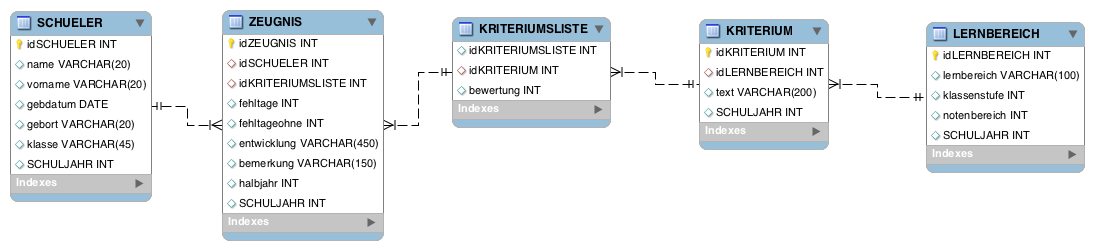
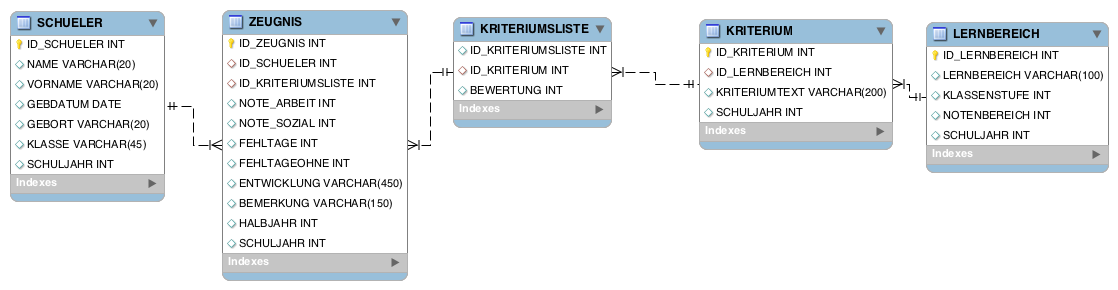
Arbeits und Sozialverhalten vorbereitet

diff --git a/src/zeugnis/SingletonSQLConnector.java b/src/zeugnis/SingletonSQLConnector.java
@@ -344,7 +344,7 @@ public class SingletonSQLConnector {
         return gebdatum;
     }
     
-        public String getSchuelerGebOrt(int idSCHUELER) throws SQLException{
+    public String getSchuelerGebOrt(int idSCHUELER) throws SQLException{
         String gebort="";
         try (Statement statement = con.createStatement()) {
             String sql = "select GEBORT from SCHUELER where ID_SCHUELER = " + idSCHUELER ;
@@ -357,6 +357,32 @@ public class SingletonSQLConnector {
         return gebort;
     }
  
+    public ArrayList[] getAVerhalten(int idSCHULER) throws SQLException {
+        ArrayList<ArrayList> result = new ArrayList<>();
+
+        /*
+        kann erst gemacht werden, wenn Zeugnis befüllt....
+        try (Statement statement = con.createStatement()) {
+
+            String sql = "select IDSCHUELER, NAME, VORNAME, GEBDATUM, GEBORT from SCHUELER where KLASSE = '" + sClass + "' and SCHULJAHR = " + sYear;
+            logger.fine(sql);
+            ResultSet set = statement.executeQuery(sql);
+
+            while (set.next()) {
+                ArrayList puple = new ArrayList();
+                puple.add(set.getString(1));
+                puple.add(set.getString(2));
+                puple.add(set.getString(3));
+                puple.add(sdf.format(set.getDate(4)));
+                puple.add(set.getString(5));
+                result.add(puple);
+            }
+
+        }
+        */
+        return result.toArray(new ArrayList[0]);
+    }
+
     /**
      * Shuts down the Derby Server in case of starting by this class.
      *

diff --git a/src/zeugnis/ZeugnisPDF.java b/src/zeugnis/ZeugnisPDF.java
@@ -57,6 +57,14 @@ public class ZeugnisPDF  {
     private String gebdatum;
     private String gebort;
 
+    private class TableItem{
+        String text;
+        int    bewertung;
+    }
+    
+    private ArrayList aVerhalten = new ArrayList<TableItem>();
+    private ArrayList sVerhalten = new ArrayList<TableItem>();
+    
     /**
      * Erzeugt eine Zeugnisklasse und füllt Variablen aus der DB
      * @param idSCHUELER
@@ -74,6 +82,8 @@ public class ZeugnisPDF  {
         vorname   = connector.getSchuelerVorname(id);
         gebdatum  = convertDate(connector.getSchuelerGebDatum(id));
         gebort    = connector.getSchuelerGebOrt(id);
+        
+        
         
         // wird später einiges noch aus der DB geholt
         String Schuljahr = "Schuljahr 2017/2018";
